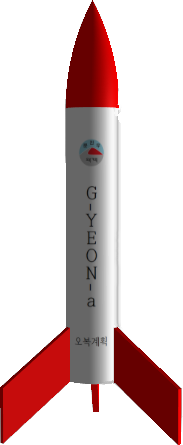
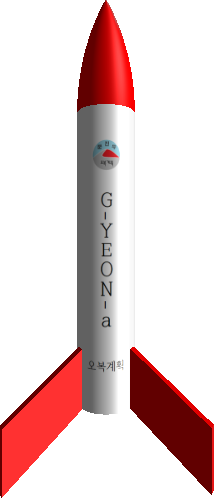
동대문엽기떡볶이를 먹고서...

Changed region(s): [[0.0, 0.0, 1.0, 1.0], [0.3825, 0.0876, 0.4098, 0.1461]]

diff --git a/자물쇠호.html b/자물쇠호.html
@@ -82,6 +82,9 @@
       }
       .Ja {
         text-align: center;
+        height: 10%;
+        transform: scale(0.43, 0.36);
+        transform-origin: top;
       }
       .bigtext {
         font-size: 30px;

diff --git a/지연알파.html b/지연알파.html
@@ -82,6 +82,8 @@
       }
       .Ga {
         text-align: center;
+        transform: scale(0.66);
+        transform-origin: top;
       }
       .bigtext {
         font-size: 30px;
